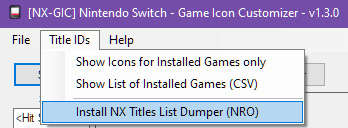
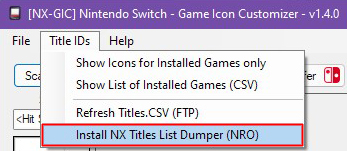
updated guide
new guide

diff --git a/docs/usingnxgic.md b/docs/usingnxgic.md
@@ -18,24 +18,23 @@ Once complete we will set the switch ip for ftp transfers
 
 put your switch ip into the `Switch IP Address` textbox
 
-[![ip](<img/ip.jpg>)]{input your switch IP into the textbox|info}
+`UserName` / `Password` credentials 
 
-If you are unsure what your switch IP is open up FTPD on your switch, this is also the next step.
+`SteamGridDB API Key`
 
-open FTPD on your switch from the hbmenu and input the switch ip shown in ftpd into the FTP selection in nx-gic
+[![ip](<img/ip.jpg>)]{Details how to find and setup can be found in the Prerequisites section|info}
 
-![ftpd](<img/nxftpd.jpg>)
 
-[![nxgic](<img/ftpd1.jpg>)]{Your switch IP will be shown when you load ftpd|info}
-!!! WARNING "important"
-		port number isn't required for `Switch IP Address` in nx-gic
+!!! bug "1.4.0 bug: NOW CLOSE NX-GIC AFTER SAVING"
+		once you have saved all the details be sure to `Close` NX-GIC
+		and re-open the application before you continue
 		
-		but must be set to `5000` which is the default port for ftpd
+		this will fix the no login credentials found when you first try to open a FTP connection
 
 ##Installing NX Title List Dumper :fontawesome-solid-file-csv:
 ---
 
-with ftpd running on the switch lets install NX Title List Dumper from nx-gic
+with `sys-ftpd-light` running on the switch lets install NX Title List Dumper from nx-gic
 
 `Title IDs > Install NX Title List Dumper (NRO)`
 
@@ -48,16 +47,14 @@ Follow the instructions on the popup.
 Our Switch IP Should Be here.
 hit `yes` and the process will begin
 
-!!!info "Manual Installing NX Titles List Dumper"
-	if you want to install manually hit `no` and you'll be taken to [nx-titles-list-dumper](https://github.com/HamletDuFromage/nx-titles-list-dumper/releases) 
-	
-	download the and place the .nro into `SD:/switch/`
-
-![yes](<img/yes.jpg>)
+![yes](<img/nx-gic-tid2.jpg>)
 
 hit `yes` you will get a popup 
 
-![yes-popup](<img/yes2.jpg>)
+!!!Warning "Don't click anything yet"
+	leave this pop up open and move to the switch and follow the steps for NX Titles List Dumper
+
+![yes-popup](<img/nx-gic-tid3.jpg>)
 
 
 
@@ -76,13 +73,17 @@ this will place a file into `SD:/titles.csv` once it's `done`
 
 press :fontawesome-solid-circle-plus:{ .yes } to exit
 
-once `SD:/titles.csv` is dumped, open ftpd from the hbmenu again
+once `SD:/titles.csv` is dumped you can click `OK`
 
-![ftpd](<img/nxftpd.jpg>)
+![yes-popup](<img/nx-gic-tid3.jpg>)
 
 and hit `ok` in NX-GIC
 
 ![ftpd](<img/ok.jpg>)
+
+If everything is sucessful you will see the completed
+
+![cvs-complete](<img/done2.jpg>)
 
 !!! Warning "transfer failure?!"
 	if the ftp transfer of ***`titles.csv`*** fails (mine unfortunately did)
@@ -90,10 +91,6 @@ and hit `ok` in NX-GIC
 	place `titles.csv` :fontawesome-solid-file-csv: ___from___ the [`root`]{SDMC:/|success} of your SD card into the same folder as `NX-Game Icon Customizer.exe` 
 
 	![ftpd](<img/yes3.jpg>)
-
-
-![cvs-complete](<img/done2.jpg>)
-
 
 # Auto NX-GIC :material-auto-fix:
 ---
@@ -181,20 +178,19 @@ This isn't a permanent "rename" it works the exact same way the icon takeover do
 when you are happy with your chosen icon(s) click `transfer`
 
 
-!!! note "FTPD should be open on your switch"
+!!! warning "sys-ftpd-light should be enabled on your switch"
 
-![ftpd](<img/nxftpd.jpg>)
-
-hopfully you have already setup the IP of your switch as previously shown
+hopfully you have already setup the IP of your switch as previously shown, click the ftp method
 
 [![nxgic](<img/nx-gic5.png>)]{If you clear the queue all the icons you have added to the output will delete after uploading|large|right|warning}
 
 click ```upload``` and you'll see the switch recieve the files, they're automatically transferred to the correct folders based off the titleID
 in `SD:/atmosphere/contents/[titleid]/icon.jpg`
 
-![nxgic](<img/ftpd2.jpg>)
+[![nxgic](<img/nx-gic6.png>)]{If you clear the queue all the icons you have added to the output will delete after uploading|large|right|warning}
 
-once you've finished transferring you can close ftpd 
+
+once you've finished transferring you will see success in green
 
 !!!Warning "You will need to reboot for icons to refresh"
 

diff --git a/docs/add-new.md b/docs/add-new.md
@@ -1,0 +1,76 @@
+With NX-GIC you can add new icons multiple ways, this method I will use a cover from the xbox store
+you can do this with almost any website image with some *minor* `Caveats` a *.webp image will __NOT__ work.
+
+Click on `Add New` and Select the *icon style* you are trying to add, in the example below it's vertical
+
+#![add-new](<img/add-new1.png>)
+
+on the xbox store right click the image you want to add as a cover and open in a new tab
+
+#![add-new](<img/add-new2.png>)
+
+with the xbox store URL you will see a long URL copy the link leaving the ending off after `?`
+the link doesn't have a image extension but I'll explain the ending url `?q=90&w=177&h=265`
+```
+q=90 quality
+w=177 width
+h=265
+```
+leaving this off the url will give you the full sized image which will give you a better image
+#![add-new](<img/add-new3.png>)
+
+| Full link final quality | Link without `?q=90&w=177&h=265` |
+|-------------------------|----------------------------------|
+| ![add-new](<img/addexlq.jpg>) | ![add-new](<img/addexfull.jpg>) |
+
+Now once you have copied the link you want to add simply click the `URL` button
+and the link will automatically be pasted into the resize window simply click `OK`
+#![add-new](<img/add-new4.png>)
+
+now you will see a preview of how the icon will look, we need to find the right title ID that matches our game
+so you may need to add the icon name or use a shorter name just to find the correct titleID
+
+click `Find...`
+
+search with your preferred method *CSV* will only look based off installed titles
+
+*JSON* will search a much larger file and might take some time to find matches
+#![add-new](<img/add-new5.png>)
+
+once you have found the correct Title click `OK`
+#![add-new](<img/add-new6.png>)
+
+You will notice the Icon Name may update & the Title ID will now be shown in the text box
+double check everything is correct and click `Add`
+#![add-new](<img/add-new7.png>)
+
+after you have Added the image it will be put into the output window ready for transfer as well as your NX-GIC repo on your system
+#![add-new](<img/add-new8.png>)
+
+Simply Click Transfer and follow the usual transferring steps
+#![add-new](<img/add-new9.png>)
+
+#Transferring :material-transfer:
+---
+
+when you are happy with your chosen icon(s) click `transfer`
+
+
+!!! warning "sys-ftpd-light should be enabled on your switch"
+
+hopfully you have already setup the IP of your switch as previously shown, click the ftp method
+
+[![nxgic](<img/nx-gic5.png>)]{If you clear the queue all the icons you have added to the output will delete after uploading|large|right|warning}
+
+click ```upload``` and you'll see the switch recieve the files, they're automatically transferred to the correct folders based off the titleID
+in `SD:/atmosphere/contents/[titleid]/icon.jpg`
+
+[![nxgic](<img/nx-gic6.png>)]{If you clear the queue all the icons you have added to the output will delete after uploading|large|right|warning}
+
+
+once you've finished transferring you will see success in green
+
+!!!Warning "You will need to reboot for icons to refresh"
+
+
+

diff --git a/docs/pre.md b/docs/pre.md
@@ -5,13 +5,19 @@ items recommended for this tutorial:
 | --------------------------------------------------------------------------------------------------------- | ----------------------------------------- | -------------------------------------------------- |
 | [[Atmosphere](https://github.com/Atmosphere-NX/Atmosphere)]{github.com/Atmosphere-NX|right|rounded|bounce|success} 								      | Custom Firmware   			        | Custom Firmware           				 |
 | [[Sys-Tweak](https://gbatemp.net/threads/custom-game-icons-tutorial-and-sharing-hub-no-forwarders.574675/)]{GBATemp guide|right|rounded|bounce|success}  | system module / homebrew 		 	  | Icon Takeover module      				 |
-| [[ftpd](https://github.com/mtheall/ftpd/releases/)]{github.com/mtheall/|right|rounded|bounce|success} 										| nro / homebrew application			  | FTP Program on the switch 				 |
-| [[NXThemesInstaller](https://github.com/exelix11/SwitchThemeInjector/releases/)]{github.com/exelix11/|right|rounded|bounce|success}                            | nro / homebrew application			  | Used to install themes    				 |
+| [sys-ftpd-light](https://github.com/cathery/sys-ftpd-light)						| nro/homebrew/sysmodule	| FTP sysmodule/program on the switch  |
+| [[NXThemesInstaller](https://github.com/exelix11/SwitchThemeInjector/releases/)]{github.com/exelix11/|right|rounded|bounce|success}                            | nro / homebrew application (*Included in some CFW packs*)			  | Used to install themes    				 |
 | [[Vertical or Horizontal Theme](supportedthemes.md)]{Supported Themes|right|rounded|bounce|success} 										| nxtheme files 					  | theme file that contains image & json patch 	 |
-| [[nx-titles-list-dumper](https://github.com/HamletDuFromage/nx-titles-list-dumper/releases)]{github.com/HamletDuFromage/|right|rounded|bounce|success}  			| nro/homebrew (*Pulled with nc-gix 1.3.0*) | imports a list of TitleID installed games into CSV |
+| [[nx-titles-list-dumper](https://github.com/HamletDuFromage/nx-titles-list-dumper/releases)]{github.com/HamletDuFromage/|right|rounded|bounce|success}  			| nro/homebrew (*Pulled with nc-gix*) | imports a list of TitleID installed games into CSV |
 
 
 | :computer: PC Related Items															| 	 						  |
 | --------------------------------------------------------------------------------------------------------------- | ----------------------------------------- |
-| [[NX-GIC](github.com/hotshotz79)]{github.com/hotshotz79|right|rounded|bounce|success} 					| Icon Repo & Transfer tool                 |
+| [[NX-GIC](https://github.com/hotshotz79)]{github.com/hotshotz79|right|rounded|bounce|success} 					| Icon Repo & Transfer tool                 |
 | [winSCP]{FTP Program|right|rounded} is bundled with NXGIC 									| ![titledump](<img/nx-gic-rel.png>)	  |
+
+## Finding your switch IP
+---
+If you are unsure what your switch IP is you can locate the ip in `system settings` > `Internet`
+
+![ftpd](<img/nxftpd.jpg>)

diff --git a/docs/add-new-sg.md b/docs/add-new-sg.md
@@ -1,0 +1,69 @@
+You can add images into NX-GIC via SteamGridDB be sure to add the [API KEY](sg-api.md)
+
+Click on `Add New` and select `Online`
+
+#![add-new](<img/add-newsg1.png>)
+
+in the `Find:` textbox input the title you are searching for
+#![add-new](<img/add-newsg2.png>)
+
+once a search is complete you should be able to find the game from the drop down menu
+#![add-new](<img/add-newsg3.png>)
+
+!!! info
+	if you don't get a result try a variation by shortening the game
+
+After you have chosen the game select the icon size you want to add
+
+#![add-new](<img/add-newsg4.png>)
+
+now click `Pull` and if any icons are available they will show.
+
+#![add-new](<img/add-newsg5.png>)
+
+choose the icon you want and click on `Add`
+
+#![add-new](<img/add-newsg6.png>)
+
+Search for the Title ID by clicking `Find...`
+
+CSV will look for titleIDs from the installed titles off the switch
+
+JSON checks a online title database and will take significantly longer
+
+you can also check slluxx's [titledblookup](https://titledblookup.stackblitz.io/)
+
+#![add-new](<img/add-newsg7.png>)
+
+when a result it found via searching simply choose the matching game and click `OK`
+
+#![add-new](<img/add-newsg8.png>)
+
+you will see the Icon Name & Title ID are in the textboxes and click `Add`
+#![add-new](<img/add-newsg9.png>)
+
+the new icon will be put into the output windows ready for transfer
+#![add-new](<img/add-newsg11.png>)
+
+#Transferring :material-transfer:
+---
+
+when you are happy with your chosen icon(s) click `transfer`
+
+
+!!! warning "sys-ftpd-light should be enabled on your switch"
+
+hopfully you have already setup the IP of your switch as previously shown, click the ftp method
+
+[![nxgic](<img/nx-gic5.png>)]{If you clear the queue all the icons you have added to the output will delete after uploading|large|right|warning}
+
+click ```upload``` and you'll see the switch recieve the files, they're automatically transferred to the correct folders based off the titleID
+in `SD:/atmosphere/contents/[titleid]/icon.jpg`
+
+[![nxgic](<img/nx-gic6.png>)]{If you clear the queue all the icons you have added to the output will delete after uploading|large|right|warning}
+
+
+once you've finished transferring you will see success in green
+
+!!!Warning "You will need to reboot for icons to refresh"
+

diff --git a/docs/add-new-br.md b/docs/add-new-br.md
@@ -1,0 +1,50 @@
+Manually adding icons you have made or saved to your system is also possible and quite simple
+
+click `Add New` be sure `Manual` is selected choose the `Icon Style` you are adding
+then locate the image you want to add by finally clicking `Browse`
+
+#![add-new](<img/add-newbr1.png>)
+
+once you have chosen the image before finding the title ID you *may* need to add the icon name or shorten it to be sucessful in finding a matching ID
+
+!!! Notes
+	in the example I have called the icon Taiko No Tatsujin
+	rather than the full name
+
+#![add-new](<img/add-newbr2.png>)
+
+clicking `Find...` you can search via CSV which is a litle of titles installed on the switch
+or via JSON which is a online titleID database
+
+choose the game that matches the icon you are adding
+
+#![add-new](<img/add-newbr3.png>)
+
+you will now have a updated Icon Name & Title ID check everything is correct and click `Add`
+#![add-new](<img/add-newbr4.png>)
+
+Everything will now be ready as the icon is added to your output window ready for transferring 
+#![add-new](<img/add-newbr5.png>)
+
+#Transferring :material-transfer:
+---
+
+when you are happy with your chosen icon(s) click `transfer`
+
+
+!!! warning "sys-ftpd-light should be enabled on your switch"
+
+hopfully you have already setup the IP of your switch as previously shown, click the ftp method
+
+[![nxgic](<img/nx-gic5.png>)]{If you clear the queue all the icons you have added to the output will delete after uploading|large|right|warning}
+
+click ```upload``` and you'll see the switch recieve the files, they're automatically transferred to the correct folders based off the titleID
+in `SD:/atmosphere/contents/[titleid]/icon.jpg`
+
+[![nxgic](<img/nx-gic6.png>)]{If you clear the queue all the icons you have added to the output will delete after uploading|large|right|warning}
+
+
+once you've finished transferring you will see success in green
+
+!!!Warning "You will need to reboot for icons to refresh"
+

diff --git a/docs/sys-ftpd-light.md b/docs/sys-ftpd-light.md
@@ -1,0 +1,18 @@
+## sys-ftpd-light
+---
+check sys-ftpd-light is enabled on your switch before setting up nx-gic & any time you transfer
+either enable via you're desired homebrew toolbox
+
+![ftpd](<img/toolbox1.jpg>)
+![ftpd](<img/toolbox2.jpg>)
+
+or via tesla with a sys-modules plugin
+
+![ftpd](<img/toolbox3.jpg>)
+
+### login credentials
+
+be sure to add sys-ftpd-light credentials either before extracting it to the root of your SD card or by editing the `config.ini`
+located on sd card :fontawesome-solid-sd-card::/config/sys-ftpd/ of the switch
+
+[![ftpd](<img/sysftpd.jpg>)]{This is a example of my config.ini |info}

diff --git a/docs/sg-api.md b/docs/sg-api.md
@@ -1,0 +1,10 @@
+## SteamGridDB API Key
+---
+
+in your steamgriddb account click on `Preferences`
+
+[![Steamgriddb](<img/sgdb1.jpg>)]{Click Preferences|info}
+
+Click on the API Tab and copy the api key
+
+[![Steamgriddb](<img/sgdb2.jpg>)]{Select API & Copy the Key|info}
